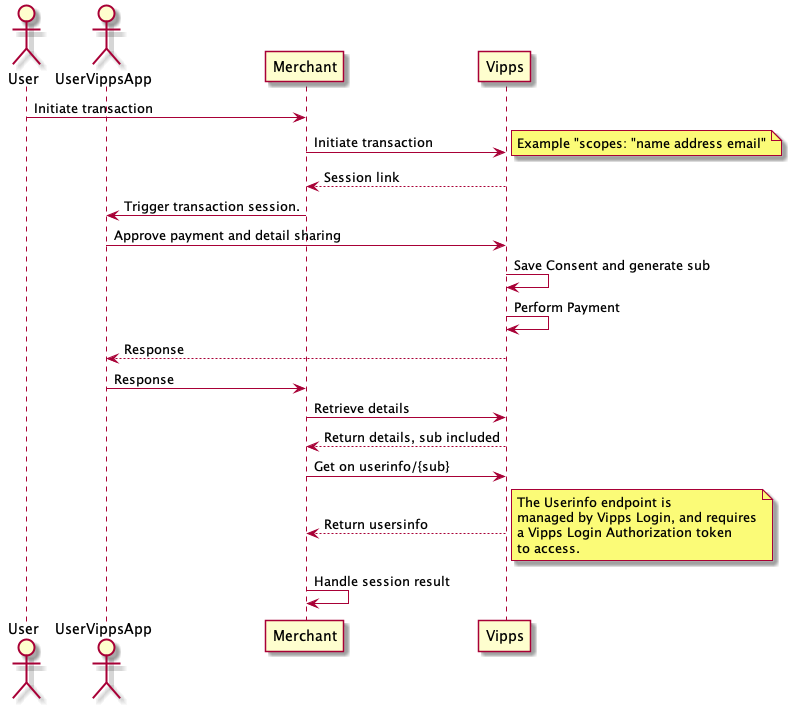
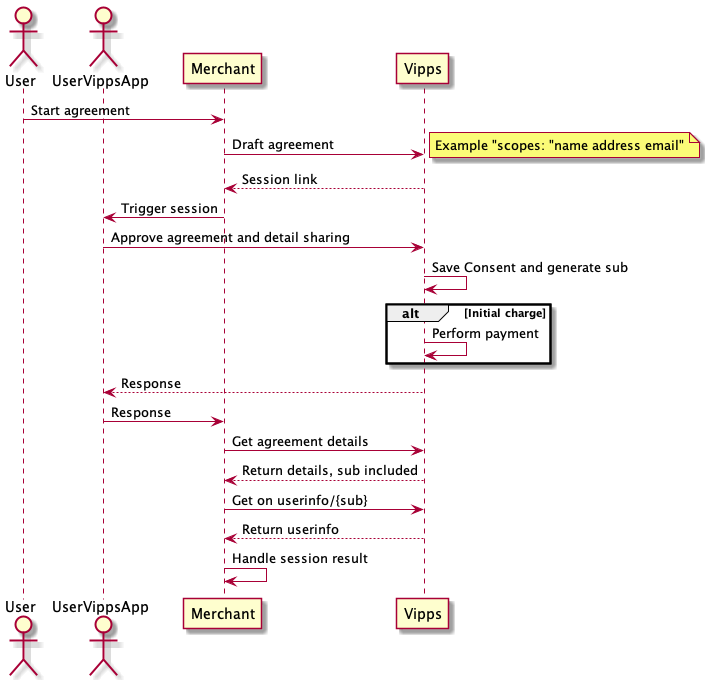
TE-1710: Changed documentation about Userinfo

diff --git a/vipps-recurring-api.md b/vipps-recurring-api.md
@@ -56,7 +56,6 @@ Document version 2.2.12.
     - [Scopes](#scopes)
     - [Userinfo call by call guide](#userinfo-call-by-call-guide)
     - [Example calls](#example-calls)
-    - [Vipps Login access token](#vipps-login-access-token)
     - [Userinfo call](#userinfo-call)
     - [Consent](#consent)
   - [HTTP responses](#http-responses)
@@ -703,16 +702,17 @@ Here is a list of possible values for `failureReason`, their respective descript
 
 ## Userinfo
 
-Vipps offers the possibility for merchants to ask for the user's profile
-information as part of the payment flow. This is done by adding a `scope`
-parameter to the initiate call:
+Vipps offers the possibility for merchants to ask for the user's profile information as part of the payment flow. 
+This is done through Vipps Userinfo which 
+You can learn more at the [OIDC Standard](https://openid.net/specs/openid-connect-core-1_0.html#UserInfo).
+
+To enable the posibility to fetch profile information for a user the merchant can add a `scope`
+parameter to the draft agreement call:
 [`POST:/recurring/v2/agreements`](https://vippsas.github.io/vipps-recurring-api/#/Agreement%20Endpoints/draftAgreement).
 
-If the enduser has not already consented to sharing information from Vipps to the merchant the user will be asked for such consent before completing the payment flow. Once the payment flow is completed the merchant can get the profile information from our Userinfo endpoint. The Userinfo endpoint is shared with [Vipps login](https://github.com/vippsas/vipps-login-api) and the merchant needs to have activated Vipps login to use this feature.
+If the enduser has not already consented to sharing information from Vipps to the merchant the user will be asked for such consent before activating the agreement. Once the agreement has been accepted the merchant can get the profile information from our Userinfo endpoint.
 
-To activate for Vipps Login - go to the developer section under https://portal.vipps.no and click "Setup login" for the desired account. When this is enabled, you get access to both Vipps login as a product, or fetching the users profileinfo can be used as standalone. If you are only using userinfo to fetch users profile info as part of a payment flow, you do not need to input redirect URIs when setting up login.
-
-A users consent to share information with a merchant applies accross our services. Thus, if the merchant implements Vipps login in addition to profile information as part of the payment flow, the merchant can also use Vipps to log the user in without the need for additional consents.
+A users consent to share information with a merchant applies across our services. Thus, if the merchant implements Vipps login in addition to profile information as part of the agreement flow, the merchant can also use Vipps to log the user in without the need for additional consents.
 
 ### Scopes
 
@@ -741,26 +741,19 @@ a customer.
 
 1. Retrieve the access token:
    [`POST:/accesstoken/get`](https://vippsas.github.io/vipps-recurring-api/#/Access%20Endpoints/getAccessToken).
-2. Add scope to the transaction object and include the scopes you wish to get
+2. Add the scope field to the draft agreement request body and include the scopes you wish to get
    access to (valid scopes) before calling
    [`POST:/agreements`](https://vippsas.github.io/vipps-recurring-api/#/Agreement%20Endpoints/draftAgreement).
-3. The user consents to the information sharing and perform the payment in Vipps.
+3. The user consents to the information sharing and accepts the agreement in Vipps.
 4. Retrieve the `sub` by calling
    [`GET:/agreements/{agreementId}`](https://vippsas.github.io/vipps-recurring-api/#/Agreement%20Endpoints/getAgreement)
-5. Generate an OAuth 2 access token with
-   [`POST:/oauth2/token`](https://vippsas.github.io/vipps-login-api/#/Vipps%20Log%20In%20API/oauth2Token),
-   using the `clientId:client_secret` as base64 as described in
-   [Vipps Login access token](#vipps-login-access-token),
-   with the `grant_type` set to `"client_credentials"`.
-6. Using the access token from step 5, call
-   [`GET:/vipps-userinfo-api/userinfo/{sub}`](https://vippsas.github.io/vipps-login-api/#/Vipps%20Log%20In%20API/userinfo)
+5. Using the sub from step 4, call
+   [`GET:/vipps-userinfo-api/userinfo/{sub}`](https://vippsas.github.io/vipps-recurring-api/#/Userinfo%20Endpoint/getUserinfo)
    to retrieve the user's information.
 
 **Important note:** The API call to
-[`GET:/vipps-userinfo-api/userinfo/{sub}`](https://vippsas.github.io/vipps-login-api/#/Vipps%20Log%20In%20API/userinfo)
-must _not_ include the subscription key used for the Recurring API as Login
-is _not_ under the same subscription, and will result in a
-`HTTP Unauthorized 401` error.
+[`GET:/vipps-userinfo-api/userinfo/{sub}`](https://vippsas.github.io/vipps-recurring-api/#/Userinfo%20Endpoint/getUserinfo)
+must _not_ include the subscription key used for the Recurring API. This is because userinfo is part of Vipps Login and is therefore _not_ under the same subscription, and will result in a `HTTP Unauthorized 401` error.
 
 ### Example calls
 
@@ -789,12 +782,10 @@ The user then consents and pays in Vipps.
 
 **Please note:** This operation has an all or nothing approach, a user must
 complete a valid agreement and consent to all values in order to complete the
-session. If a user chooses to reject the terms the payment will not be
-processed. Unless the whole flow is completed, this will be handled as regular
-a failed agreement by the recurring APIs
+session. If a user chooses to reject the terms the agreement will not be
+processed. Unless the whole flow is completed, this will be handled as a regular failed agreement by the recurring APIs.
 
-Once the user completes the session a unique identifier `sub` can be retrieved in the agreement details
-[`GET:/v2/agreements/{agreementId}`](https://vippsas.github.io/vipps-recurring-api/#/Agreement%20Endpoints/getAgreement) endpoint alongside the full URL to Userinfo.
+Once the user completes the session a unique identifier `sub` can be retrieved in the agreement details [`GET:/v2/agreements/{agreementId}`](https://vippsas.github.io/vipps-recurring-api/#/Agreement%20Endpoints/getAgreement) endpoint alongside the full URL to Userinfo.
 
 Example `sub` and `userinfoUrl` format:
 
@@ -804,8 +795,7 @@ Example `sub` and `userinfoUrl` format:
 ```
 
 This `sub` is a link between the merchant and the user and can used to retrieve
-the user's details from Vipps Login:
-[`GET:/vipps-userinfo-api/userinfo/{sub}`](https://vippsas.github.io/vipps-login-api/#/Vipps%20Log%20In%20API/userinfo)
+the user's details from Vipps userinfo: [`GET:/vipps-userinfo-api/userinfo/{sub}`](https://vippsas.github.io/vipps-recurring-api/#/Userinfo%20Endpoint/getUserinfo)
 
 **Please note:** It is recommended to get the user's information directly after
 completing the transaction. There is however a _time limit of 168 hours_
@@ -816,57 +806,11 @@ user profile at the time when they actually fetch the information. This means
 that the information might have changed from the time the user completed the
 transaction and the fetching of the profile data.
 
-### Vipps Login access token
-
-Accessing the Login `userinfo` endpoint required the Vipps Login access token: [`POST:/oauth2/token`](https://vippsas.github.io/vipps-login-api/#/Vipps%20Log%20In%20API/oauth2Token). The client constructs the request by adding the parameters described below to the HTTP body by using the `application/x-www-form-urlencoded` format.
-
-**Request**
-
-*Headers*
-
-| Header            | Description                           |
-| ----------------- | ------------------------------------- |
-| Content-Type      | "application/x-www-form-urlencoded"   |
-| Authorization     | "Basic {Client Credentials}"          |
-
-The Client Credentials is a base 64 encoded string consisting of the Client id
-and secret issued by Vipps joined by ":"
-
-Example of generating the client credentials in bash where:
-
-- client_id = 123456-test-4a3d-a47c-412136fd0871
-- client_secret = testdzlJbUZaM1lqODlnUUtrUHI=
-
-```bash
-echo "123456-test-4a3d-a47c-412136fd0871:testdzlJbUZaM1lqODlnUUtrUHI=" | base64
-```
-
[1 lines of base64/hex data omitted]
-
-*Form content*
-
-| Key               | Description                         |
-| ----------------- | ----------------------------------- |
-| grant_type        | Value **must** be the actual string  `"client_credentials"`, not the value generated above.  |
-
-**Example response:**
-
-```json
-{
-  "access_token": "hel39XaKjGH5tkCvIENGPNbsSHz1DLKluOat4qP-A4.WyV61hCK1E2snVs1aOvjOWZOXOayZad0K-Qfo3lLzus",
-  "id_token": "eyJhbGciOiJSUzI1NiIsImtpZCI6InB1YmxpYzo4MGYzYzM0YS05Nzc5LT <snip>",
-  "expires_in": 3599,
-  "scope": "openid",
-  "token_type": "bearer"
-}
-```
-
 ### Userinfo call
 
-This endpoint returns the payload with the information that the user has consented to share, which is provided in the OAuth 2.0 access token.
-You can learn more at the [OIDC Standard](https://openid.net/specs/openid-connect-core-1_0.html#UserInfo).
+This endpoint returns the payload with the information that the user has consented to share.
 
-Call [`GET:/vipps-userinfo-api/userinfo/{sub}`](https://vippsas.github.io/vipps-login-api/#/Vipps%20Log%20In%20API/userinfo) with the `sub` that was retrieved when calling [`GET:/v2/agreements/{agreementId}`](https://vippsas.github.io/vipps-recurring-api/#/Agreement%20Endpoints/getAgreement). See below on how to construct the call.
+Call [`GET:/vipps-userinfo-api/userinfo/{sub}`](https://vippsas.github.io/vipps-recurring-api/#/Userinfo%20Endpoint/getUserinfo) with the `sub` that was retrieved earlier. See below on how to construct the call.
 
 **Request**
 
@@ -876,7 +820,9 @@ Call [`GET:/vipps-userinfo-api/userinfo/{sub}`](https://vippsas.github.io/vipps-
 | ----------------- | -------------------------------------  |
 | Authorization     | "Bearer {Access Token}"                |
 
-The access token is received on a successful request to the token endpoint described above.
+The access token is received on a successful request to the token endpoint described in [Authentication](#authentication).
+
+**Important note:** Subscription key used for the Recurring API must _not_ be included. This is because userinfo is part of Vipps Login and is therefore _not_ under the same subscription, and will result in a `HTTP Unauthorized 401` error.
 
 **Example response:**
 
@@ -927,8 +873,6 @@ The access token is received on a successful request to the token endpoint descr
     ]
 }
 ```
-
-**Please note:** More documentation about the token and userinfo endpoint can be found [here](https://github.com/vippsas/vipps-login-api/blob/master/vipps-login-api.md#access-token).
 
 ![Userinfo sequence](images/userinfo-direct.png)
 

diff --git a/vipps-recurring-api-faq.md b/vipps-recurring-api-faq.md
@@ -11,7 +11,7 @@ See also:
 [Getting Started](https://github.com/vippsas/vipps-developers/blob/master/vipps-getting-started.md)
 guide.
 
-Document version: 1.4.3.
+Document version: 1.4.4
 
 ## Table of Contents
 
@@ -174,7 +174,7 @@ users, as described in
 
 Yes.
 
-Vipps now offers the possibility for merchants to as part of the payment flow in the
+Vipps offers the possibility for merchants to as part of the payment flow in the
 [Vipps eCom API v2](https://github.com/vippsas/vipps-ecom-api/blob/master/vipps-ecom-api.md#userinfo)
 and
 [Vipps Recurring API](https://github.com/vippsas/vipps-recurring-api/blob/master/vipps-recurring-api.md#userinfo).

diff --git a/vipps-recurring-api-checklist.md b/vipps-recurring-api-checklist.md
@@ -2,7 +2,7 @@
 
 API version: 2.0
 
-Document version 1.1.1
+Document version 1.1.2”
 
 For examples of requests and responses, see the Postman collection in [tools](tools/)
 
